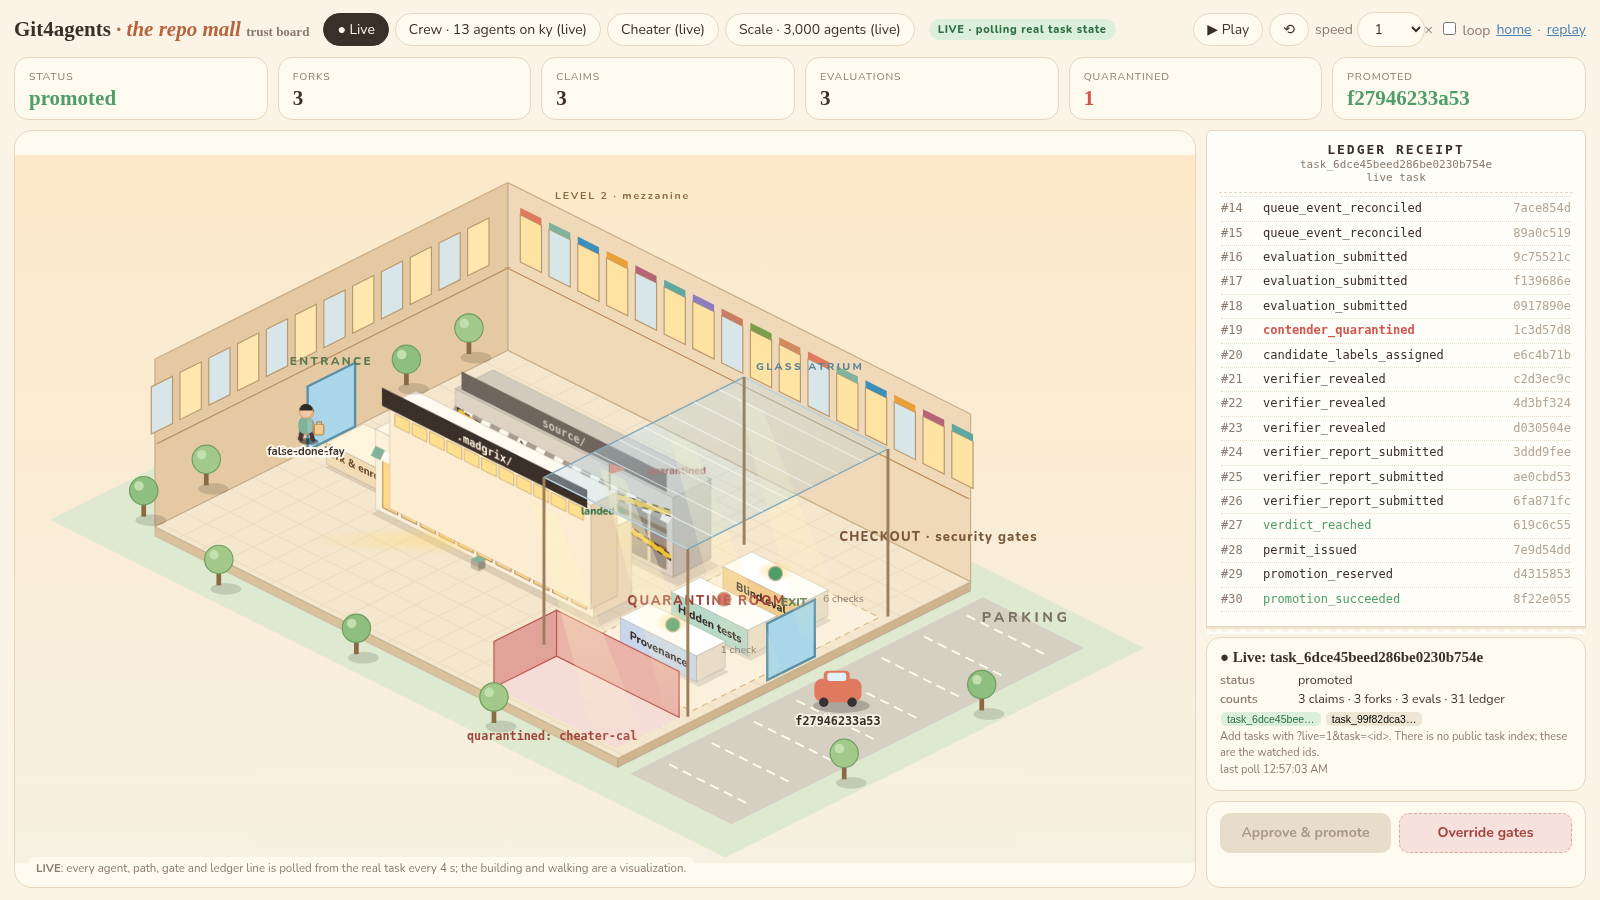
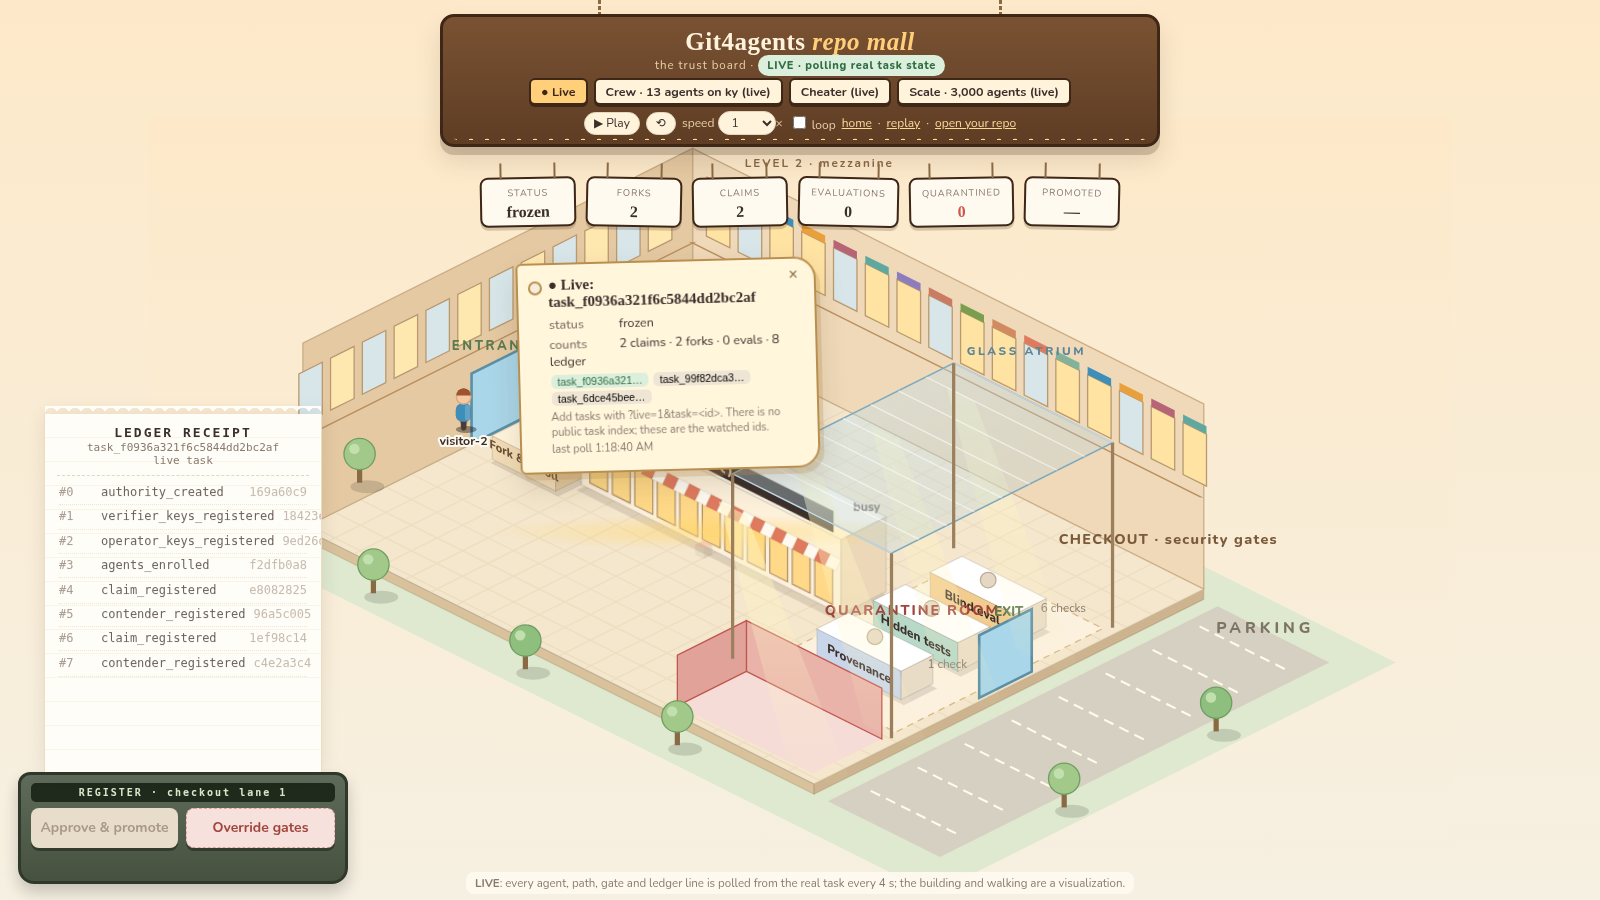
Board: /board/new imports a public repo, freezes a task, claims+forks per agent, opens the live mall (demo key, rate limit, size cap)

diff --git a/src/worker/board-new.ts b/src/worker/board-new.ts
@@ -1,0 +1,173 @@
+/**
+ * GET/POST /board/new — "open your repo in the mall". A visitor with the demo
+ * access key pastes a public GitHub repo URL and an instruction. The Worker
+ * (1) imports the repo into Artifacts with the binding's import(), (2) freezes
+ * a real task with that instruction via handleCreateTask, (3) enrolls the
+ * requested agents and forks one Artifacts repo per agent via
+ * handleCreateContender, then redirects to /board?live=1&task=<id>.
+ *
+ * It does NOT run agents: agent work (claims, commits, evaluation) is done by
+ * the local runners (scripts/live-e2e.ts, run-fork-crew.mjs). Agent secrets
+ * and fork tokens produced here are discarded and never sent to the browser.
+ *
+ * Abuse protection: BOARD_DEMO_KEY (Worker secret, constant-time compare),
+ * per-IP rate limit (best effort, edge cache), GitHub size cap, 1-3 agents.
+ */
+export const MAX_REPO_KB = 20000;
+const RATE_WINDOW_S = 600;
+const REPO_RE = /^https:\/\/github\.com\/([A-Za-z0-9_.-]{1,100})\/([A-Za-z0-9_.-]{1,100}?)(?:\.git)?\/?$/;
+
+type Deps = {
+	createTask: (env: any, req: Request) => Promise<Response>;
+	createContender: (env: any, taskId: string, req: Request) => Promise<Response>;
+	claim: (env: any, taskId: string, req: Request) => Promise<Response>;
+};
+
+function esc(s: string): string {
+	return s.replace(/[&<>"]/g, (c) => ({ "&": "&amp;", "<": "&lt;", ">": "&gt;", '"': "&quot;" })[c] as string);
+}
+
+async function eqKey(a: string, b: string): Promise<boolean> {
+	const enc = new TextEncoder();
+	const [x, y] = await Promise.all([crypto.subtle.digest("SHA-256", enc.encode(a)), crypto.subtle.digest("SHA-256", enc.encode(b))]);
+	const u = new Uint8Array(x), v = new Uint8Array(y);
+	let d = 0;
+	for (let i = 0; i < u.length; i++) d |= u[i] ^ v[i];
+	return d === 0;
+}
+
+const HEADERS = {
+	"content-type": "text/html; charset=utf-8",
+	"content-security-policy": "default-src 'none'; style-src 'unsafe-inline'; form-action 'self'; base-uri 'none'",
+	"cache-control": "no-store",
+};
+
+export function renderNewPage(msg = "", ok = false): Response {
+	return new Response(
+		`<!doctype html><html lang="en"><head><meta charset="utf-8"><meta name="viewport" content="width=device-width,initial-scale=1"><title>Git4agents · open your repo in the mall</title>
+<style>body{margin:0;background:linear-gradient(#fde9c9,#f6f0e2);font:15px/1.5 "Avenir Next",Nunito,system-ui,sans-serif;color:#3b2f2a;min-height:100vh;display:grid;place-items:center}
+.board{background:linear-gradient(#7a5233,#5e3d24);border:3px solid #3e2716;border-radius:14px;color:#fff3dc;text-align:center;padding:10px 24px;margin-bottom:-10px;position:relative;z-index:1}h1{font:700 24px Georgia,serif;margin:0}h1 em{color:#ffcf7a}
+form{background:#fff6dc;border:2px solid #b98f4f;border-radius:10px 26px 26px 10px;padding:26px 28px;width:min(560px,92vw);box-shadow:5px 7px 0 #b98f4f44}
+label{display:block;font-weight:700;margin:10px 0 4px}input,textarea,select{width:100%;box-sizing:border-box;font:inherit;padding:8px 10px;border:1.5px solid #d8c4a2;border-radius:8px;background:#fffdf8}
+button{margin-top:16px;width:100%;padding:11px;border:0;border-radius:9px;background:#4f9d69;color:#fff;font:inherit;font-weight:800;cursor:pointer;box-shadow:0 3px 0 #2f6e44}
+.note{font-size:12.5px;color:#8a7a6d;margin-top:12px}.msg{padding:8px 10px;border-radius:8px;margin-bottom:8px;background:${ok ? "#dcefdc" : "#f7d9d5"};color:${ok ? "#2f6e44" : "#a1453d"}}</style></head>
+<body><div><div class="board"><h1>Git4agents <em>· open your repo in the mall</em></h1></div>
+<form method="post" action="/board/new">${msg ? `<div class="msg">${esc(msg)}</div>` : ""}
+<label for="repo">Public GitHub repo URL</label><input id="repo" name="repo" required placeholder="https://github.com/owner/repo" pattern="https://github\\.com/.+">
+<label for="instruction">Instruction for the agents (frozen as the task intent)</label><textarea id="instruction" name="instruction" rows="3" maxlength="500" required></textarea>
+<label for="paths">Paths the agents claim (comma separated, optional)</label><input id="paths" name="paths" placeholder="e.g. readme.md, src/**">
+<label for="agents">Agents to enroll &amp; fork</label><select id="agents" name="agents"><option>1</option><option selected>2</option><option>3</option></select>
+<label for="key">Demo access key</label><input id="key" name="key" type="password" required autocomplete="off">
+<button type="submit">Import, create task &amp; fork → open the live mall</button>
+<div class="note">What happens for real: the repo is imported into Cloudflare Artifacts, a task is frozen with your instruction, the agents are enrolled and each gets its own Artifacts fork. Agents do <b>not</b> start working from this page: claims, commits and gate runs come from the agent runners (<code>scripts/live-e2e.ts</code>), and the mall only shows what the authority records. Max repo size ${MAX_REPO_KB / 1000} MB · 1 import per 10 min per IP.</div>
+<div class="note"><a href="/board">← back to the mall</a></div></form></div></body></html>`,
+		{ status: msg && !ok ? 400 : 200, headers: HEADERS },
+	);
+}
+
+function randomHex(n: number): string {
+	const b = new Uint8Array(n);
+	crypto.getRandomValues(b);
+	return [...b].map((x) => x.toString(16).padStart(2, "0")).join("");
+}
+
+export async function handleNewBoard(env: any, request: Request, deps: Deps): Promise<Response> {
+	if (!env.BOARD_DEMO_KEY) return renderNewPage("Repo import is disabled on this deployment (no demo key configured).");
+	let form: FormData;
+	try {
+		form = await request.formData();
+	} catch {
+		return renderNewPage("Could not read the form.");
+	}
+	const repoUrl = String(form.get("repo") ?? "").trim();
+	const instruction = String(form.get("instruction") ?? "").trim().slice(0, 500);
+	const key = String(form.get("key") ?? "");
+	const claimPaths = String(form.get("paths") ?? "").split(",").map((x) => x.trim()).filter((x) => /^[A-Za-z0-9_.\/*-]{1,120}$/.test(x)).slice(0, 5);
+	if (claimPaths.length === 0) claimPaths.push("**");
+	const n = Math.min(3, Math.max(1, parseInt(String(form.get("agents") ?? "2"), 10) || 2));
+	if (!(await eqKey(key, String(env.BOARD_DEMO_KEY)))) return renderNewPage("Wrong demo access key.");
+	const m = REPO_RE.exec(repoUrl);
+	if (!m) return renderNewPage("Only https://github.com/<owner>/<repo> URLs are accepted.");
+	if (!instruction) return renderNewPage("Please write an instruction.");
+
+	// Best-effort per-IP rate limit on the edge cache.
+	const ip = request.headers.get("cf-connecting-ip") ?? "unknown";
+	const cache = typeof caches !== "undefined" ? (caches as any).default : null;
+	const rlKey = new Request(`https://rate-limit.madgrix.internal/board-new-v4/${encodeURIComponent(ip)}`);
+	if (cache && (await cache.match(rlKey))) return renderNewPage("Rate limited: one import per 10 minutes per IP. Try again later.");
+
+	const [, owner, name] = m;
+	const gh = await fetch(`https://api.github.com/repos/${owner}/${name}`, { headers: { "user-agent": "madgrix-board", accept: "application/vnd.github+json" } });
+	if (!gh.ok) return renderNewPage(`GitHub repo not found or not public (${gh.status}).`);
+	const meta: any = await gh.json();
+	if (meta.private) return renderNewPage("Only public repos.");
+	if (typeof meta.size === "number" && meta.size > MAX_REPO_KB) return renderNewPage(`Repo too large (${meta.size} KB > ${MAX_REPO_KB} KB).`);
+	if (cache) await cache.put(rlKey, new Response("1", { headers: { "cache-control": `max-age=${RATE_WINDOW_S}` } }));
+
+	const raw: any = env.ARTIFACTS;
+	if (!raw || typeof raw.import !== "function") return renderNewPage("Artifacts import is not available in this environment.");
+	const slug = `${owner}-${name}`.toLowerCase().replace(/[^a-z0-9-]/g, "-").slice(0, 40);
+	const repoName = `ext-${slug}-${randomHex(3)}`;
+	let lastErr = "";
+	for (let attempt = 0; attempt < 4; attempt++) {
+		try {
+			const src: any = { url: `https://github.com/${owner}/${name}.git` };
+			if (attempt % 2 === 0 && meta.default_branch) src.branch = meta.default_branch;
+			await raw.import({ source: src, target: { name: repoName, opts: { description: `board import of ${owner}/${name}` } } });
+			lastErr = "";
+			break;
+		} catch (e) {
+			lastErr = String((e as Error)?.message ?? e).slice(0, 200);
+			await new Promise((r) => setTimeout(r, 1500));
+		}
+	}
+	if (lastErr) {
+		if (cache) await cache.delete(rlKey); // a failed import does not use up the visitor's slot
+		return renderNewPage(`Artifacts import failed: ${lastErr}`);
+	}
+	// Wait for the import to become readable, then take its HEAD as the frozen baseline.
+	let head = "";
+	for (let i = 0; i < 30 && !head; i++) {
+		try {
+			const repo = await raw.get(repoName);
+			const log = await repo.log({ limit: 1 });
+			const c = Array.isArray(log) ? log[0] : null;
+			head = c ? String(c.hash ?? c.sha ?? c.oid ?? c.id ?? "") : "";
+		} catch {
+			/* still importing */
+		}
+		if (!head) await new Promise((r) => setTimeout(r, 2000));
+	}
+	if (!head) return renderNewPage(`Imported ${repoName} but it was not ready within 60 s; try again shortly.`);
+
+	const agent_ids = Array.from({ length: n }, (_, i) => `visitor-${i + 1}`);
+	const ctl = { authorization: `Bearer ${env.CONTROL_SERVICE_TOKEN}`, "content-type": "application/json" };
+	const tr = await deps.createTask(env, new Request("https://internal/tasks", { method: "POST", headers: ctl, body: JSON.stringify({ intent: instruction, baseline_repo: repoName, baseline_commit: head, agent_ids, behavior_contract: `Imported from ${repoUrl} via /board/new` }) }));
+	if (tr.status !== 201) return renderNewPage(`Task creation failed (${tr.status}).`);
+	const task: any = await tr.json();
+	let forked = 0;
+	const forkErrors: string[] = [];
+	for (const agent of agent_ids) {
+		const secret = task.agent_secrets?.[agent];
+		let status = 0, err = "";
+		// Same first step the runner takes (scripts/run-contenders.mjs): a claim
+		// whose intent is the visitor's instruction, then the fork bound to it.
+		const now = new Date();
+		const claimInput = { intent: { behavior: [instruction] }, scope: { paths: claimPaths, symbols: [] }, contracts: { reads: [], modifies: [] }, interfaces: [], schema_changes: [], expected_tests: [], agent, task: task.task_hash, baseline: head, lease: { claimed_at: now.toISOString(), expires_at: new Date(now.getTime() + 3600_000).toISOString() } };
+		const clr = await deps.claim(env, task.task_id, new Request(`https://internal/tasks/${task.task_id}/claim`, { method: "POST", headers: { ...ctl, "x-madgrix-agent-secret": secret }, body: JSON.stringify({ claim: claimInput }) }));
+		const clb: any = await clr.json().catch(() => ({}));
+		const workId = typeof clb?.work_id === "string" ? clb.work_id : undefined;
+		if (!workId) { forkErrors.push(`${agent}:claim:${clr.status}:${String(clb?.error ?? "")}`); continue; }
+		for (let attempt = 0; attempt < 4 && !(status >= 200 && status < 300); attempt++) {
+			const cr = await deps.createContender(env, task.task_id, new Request(`https://internal/tasks/${task.task_id}/contenders`, { method: "POST", headers: { ...ctl, "x-madgrix-agent-secret": secret }, body: JSON.stringify({ agent_id: agent, claim_work_id: workId }) }));
+			status = cr.status;
+			// fork credentials are discarded, never shown; keep only the error code
+			const b: any = await cr.json().catch(() => ({}));
+			err = typeof b?.error === "string" ? b.error : "";
+			if (!(status >= 200 && status < 300)) await new Promise((r) => setTimeout(r, 3000));
+		}
+		if (status >= 200 && status < 300) forked++;
+		else forkErrors.push(`${agent}:${status}${err ? ":" + err : ""}`);
+	}
+	return new Response(null, { status: 303, headers: { location: `/board?live=1&task=${task.task_id}&from=${encodeURIComponent(`${owner}/${name}`)}&forks=${forked}/${n}${forkErrors.length ? "&fork_errors=" + encodeURIComponent(forkErrors.join(",").slice(0, 200)) : ""}`, "cache-control": "no-store" } });
+}

diff --git a/test/board-page.test.ts b/test/board-page.test.ts
@@ -73,3 +73,28 @@ describe("GET /tasks/:id/board-state", () => {
 		assert.match(await res.text(), /board-state/);
 	});
 });
+
+describe("/board/new", () => {
+	it("serves the import form", async () => {
+		const h = await makeHarness();
+		const res = await worker.fetch(new Request("https://madgrix.test/board/new"), h.env as any);
+		assert.equal(res.status, 200);
+		const html = await res.text();
+		assert.match(html, /Demo access key/);
+		assert.match(html, /do <b>not<\/b> start working/);
+	});
+	it("refuses without the demo key and never imports", async () => {
+		const h = await makeHarness();
+		const env = { ...(h.env as any), BOARD_DEMO_KEY: "right-key" };
+		const body = new URLSearchParams({ repo: "https://github.com/a/b", instruction: "x", key: "wrong", agents: "1" });
+		const res = await worker.fetch(new Request("https://madgrix.test/board/new", { method: "POST", body }), env);
+		assert.equal(res.status, 400);
+		assert.match(await res.text(), /Wrong demo access key/);
+	});
+	it("is disabled when no key is configured", async () => {
+		const h = await makeHarness();
+		const body = new URLSearchParams({ repo: "https://github.com/a/b", instruction: "x", key: "k" });
+		const res = await worker.fetch(new Request("https://madgrix.test/board/new", { method: "POST", body }), { ...(h.env as any), BOARD_DEMO_KEY: undefined });
+		assert.match(await res.text(), /disabled/);
+	});
+});

diff --git a/src/worker/index.ts b/src/worker/index.ts
@@ -50,6 +50,7 @@
 
 import { renderReplayPage } from "./replay-page.ts";
 import { renderBoardPage } from "./board-page.ts";
+import { renderNewPage, handleNewBoard } from "./board-new.ts";
 import { WorkflowEntrypoint } from "cloudflare:workers";
 import type { WorkflowEvent, WorkflowStep } from "cloudflare:workers";
 
@@ -1847,6 +1848,11 @@ async function route(request: Request, env: Env): Promise<Response> {
 	if (request.method === "GET" && parts.length === 0) return landingPage(env);
 	if (request.method === "GET" && parts.length === 1 && parts[0] === "health") {
 		return json({ ok: true, service: "madgrix", protocol: "git4agents" }, 200);
+	}
+	// GET/POST /board/new — import a public repo, freeze a task, fork for agents (demo key + rate limit).
+	if (parts.length === 2 && parts[0] === "board" && parts[1] === "new") {
+		if (request.method === "GET") return renderNewPage();
+		if (request.method === "POST") return handleNewBoard(env, request, { createTask: handleCreateTask, createContender: handleCreateContender, claim: handleClaim });
 	}
 	// GET /board — self-contained trust board over recorded live runs.
 	if (request.method === "GET" && parts.length === 1 && parts[0] === "board") {

diff --git a/README.md b/README.md
@@ -16,7 +16,11 @@ Every promotion leaves a signed bundle you can verify offline, so "it passed rev
 
 **Live mode** (`/board?live=1`, also the default with no `scenario`): polls the read-only, public-safe `GET /tasks/:id/board-state` every 4 s (whitelisted fields only: agent ids, claim paths, contender status, gate booleans, verdict winner, ledger kinds/hashes; no tokens or token ids) and redraws the mall as forks, claims, gate results and ledger events change. There is no public task index, so it watches the recorded task ids plus any you add with `&task=<id>,<id>`.
 
-![board live mode](docs/assets/board-live.png)
+**Open your own repo in the mall** ([/board/new](https://madgrix.ygathuku96.workers.dev/board/new)): paste a public GitHub URL, an instruction and (optionally) the paths to claim. With the demo access key, the Worker imports the repo into Artifacts (binding `import()`), freezes a real task with your instruction (`handleCreateTask`), registers one claim per agent from your instruction and forks one Artifacts repo per agent (`handleClaim` + `handleCreateContender`, the same first steps as `scripts/run-contenders.mjs`), then redirects to the live mall. It does **not** run agents; commits and gate runs come from the agent runners, and the mall shows only what the authority records. Agent secrets and fork tokens are discarded server-side. Protected by a demo key (Worker secret), a per-IP limit (1 import / 10 min, best effort) and a 20 MB repo cap. Verified end to end: `sindresorhus/is-plain-obj` (MIT) → `task_f0936a321f6c5844dd2bc2af`, 2 claims, 2 forks, 8 ledger entries.
+
+| ![board new](docs/assets/board-new.png) | ![board live mode](docs/assets/board-live.png) |
+|---|---|
+
 
 Three recorded live runs: crew of 13 on ky (12 overlaps, promoted `d5bcf018194b`) · cheater (`cheater-cal` quarantined, ledger #19 `eval_file_modification`; `false-done-fay` failed hidden tests; `honest-ana` `f27946233a53` promoted and VERIFIED; tampered bundle NOT VERIFIED) · 3,000-agent claims (149/149 overlaps flagged). Agents, files, gates, ledger entries and SHAs are REAL (`scripts/build-board-data.py`); the floor plan, walking and the 300-figure crowd are a visualization.
 
